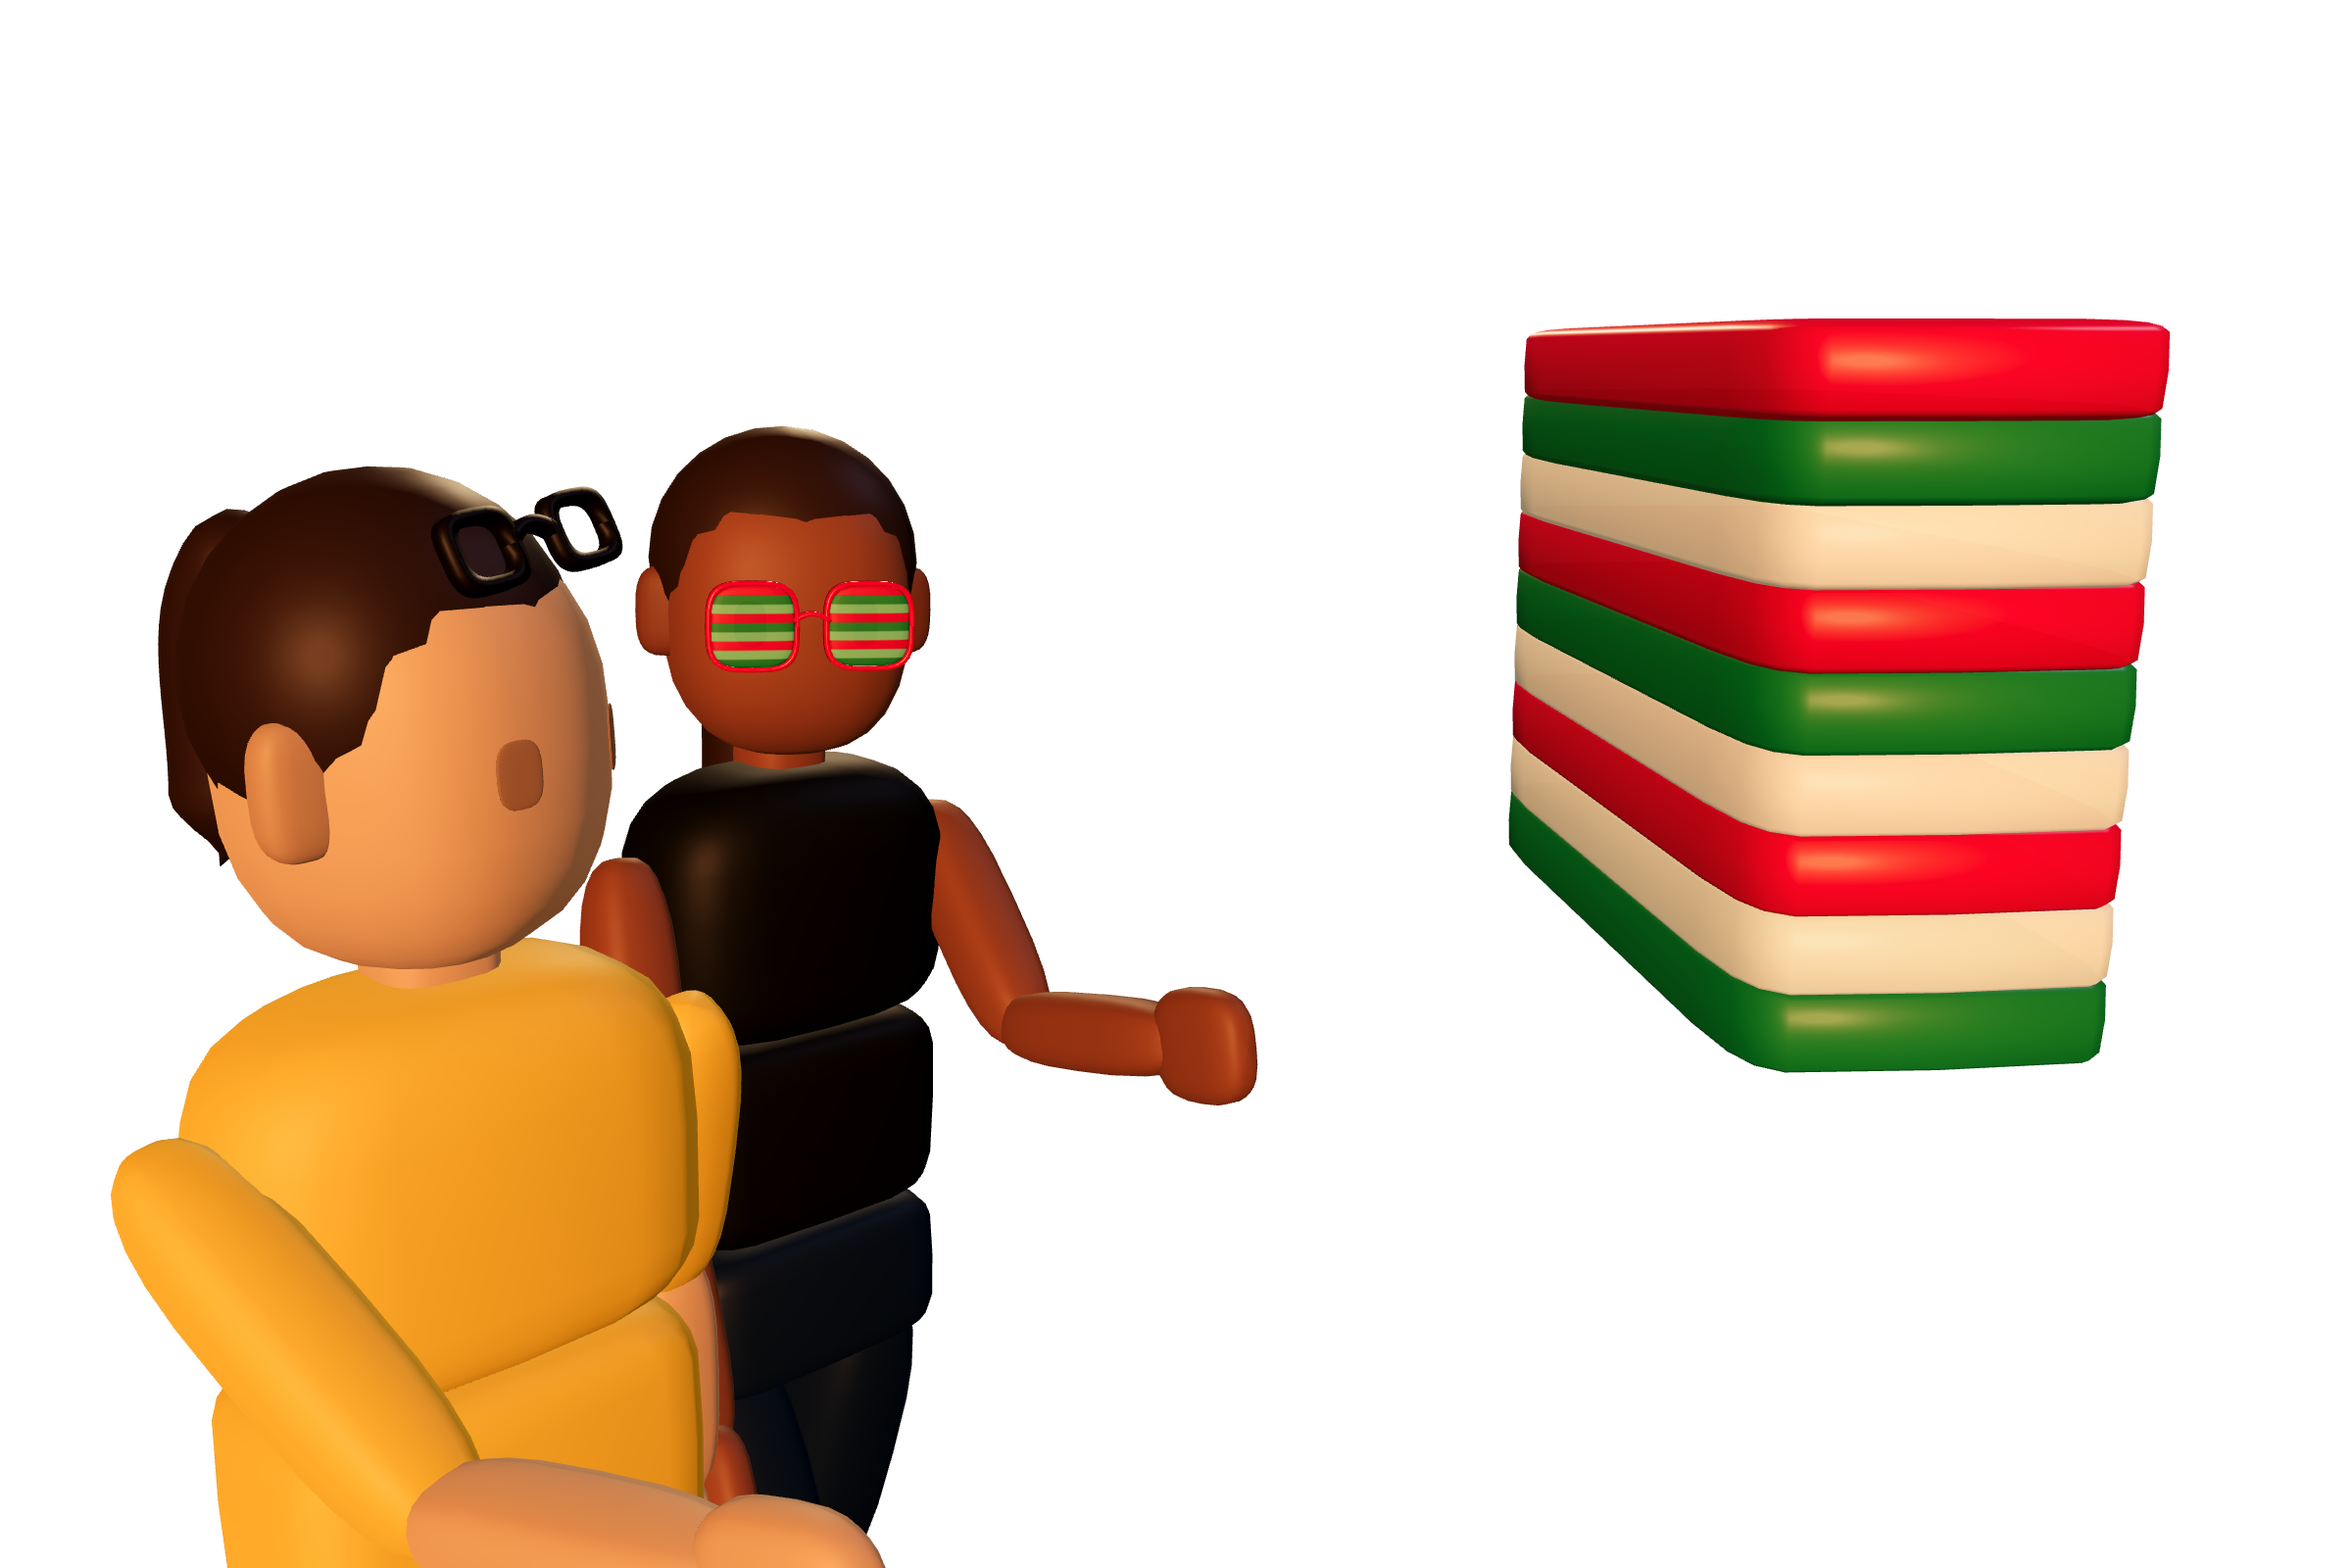
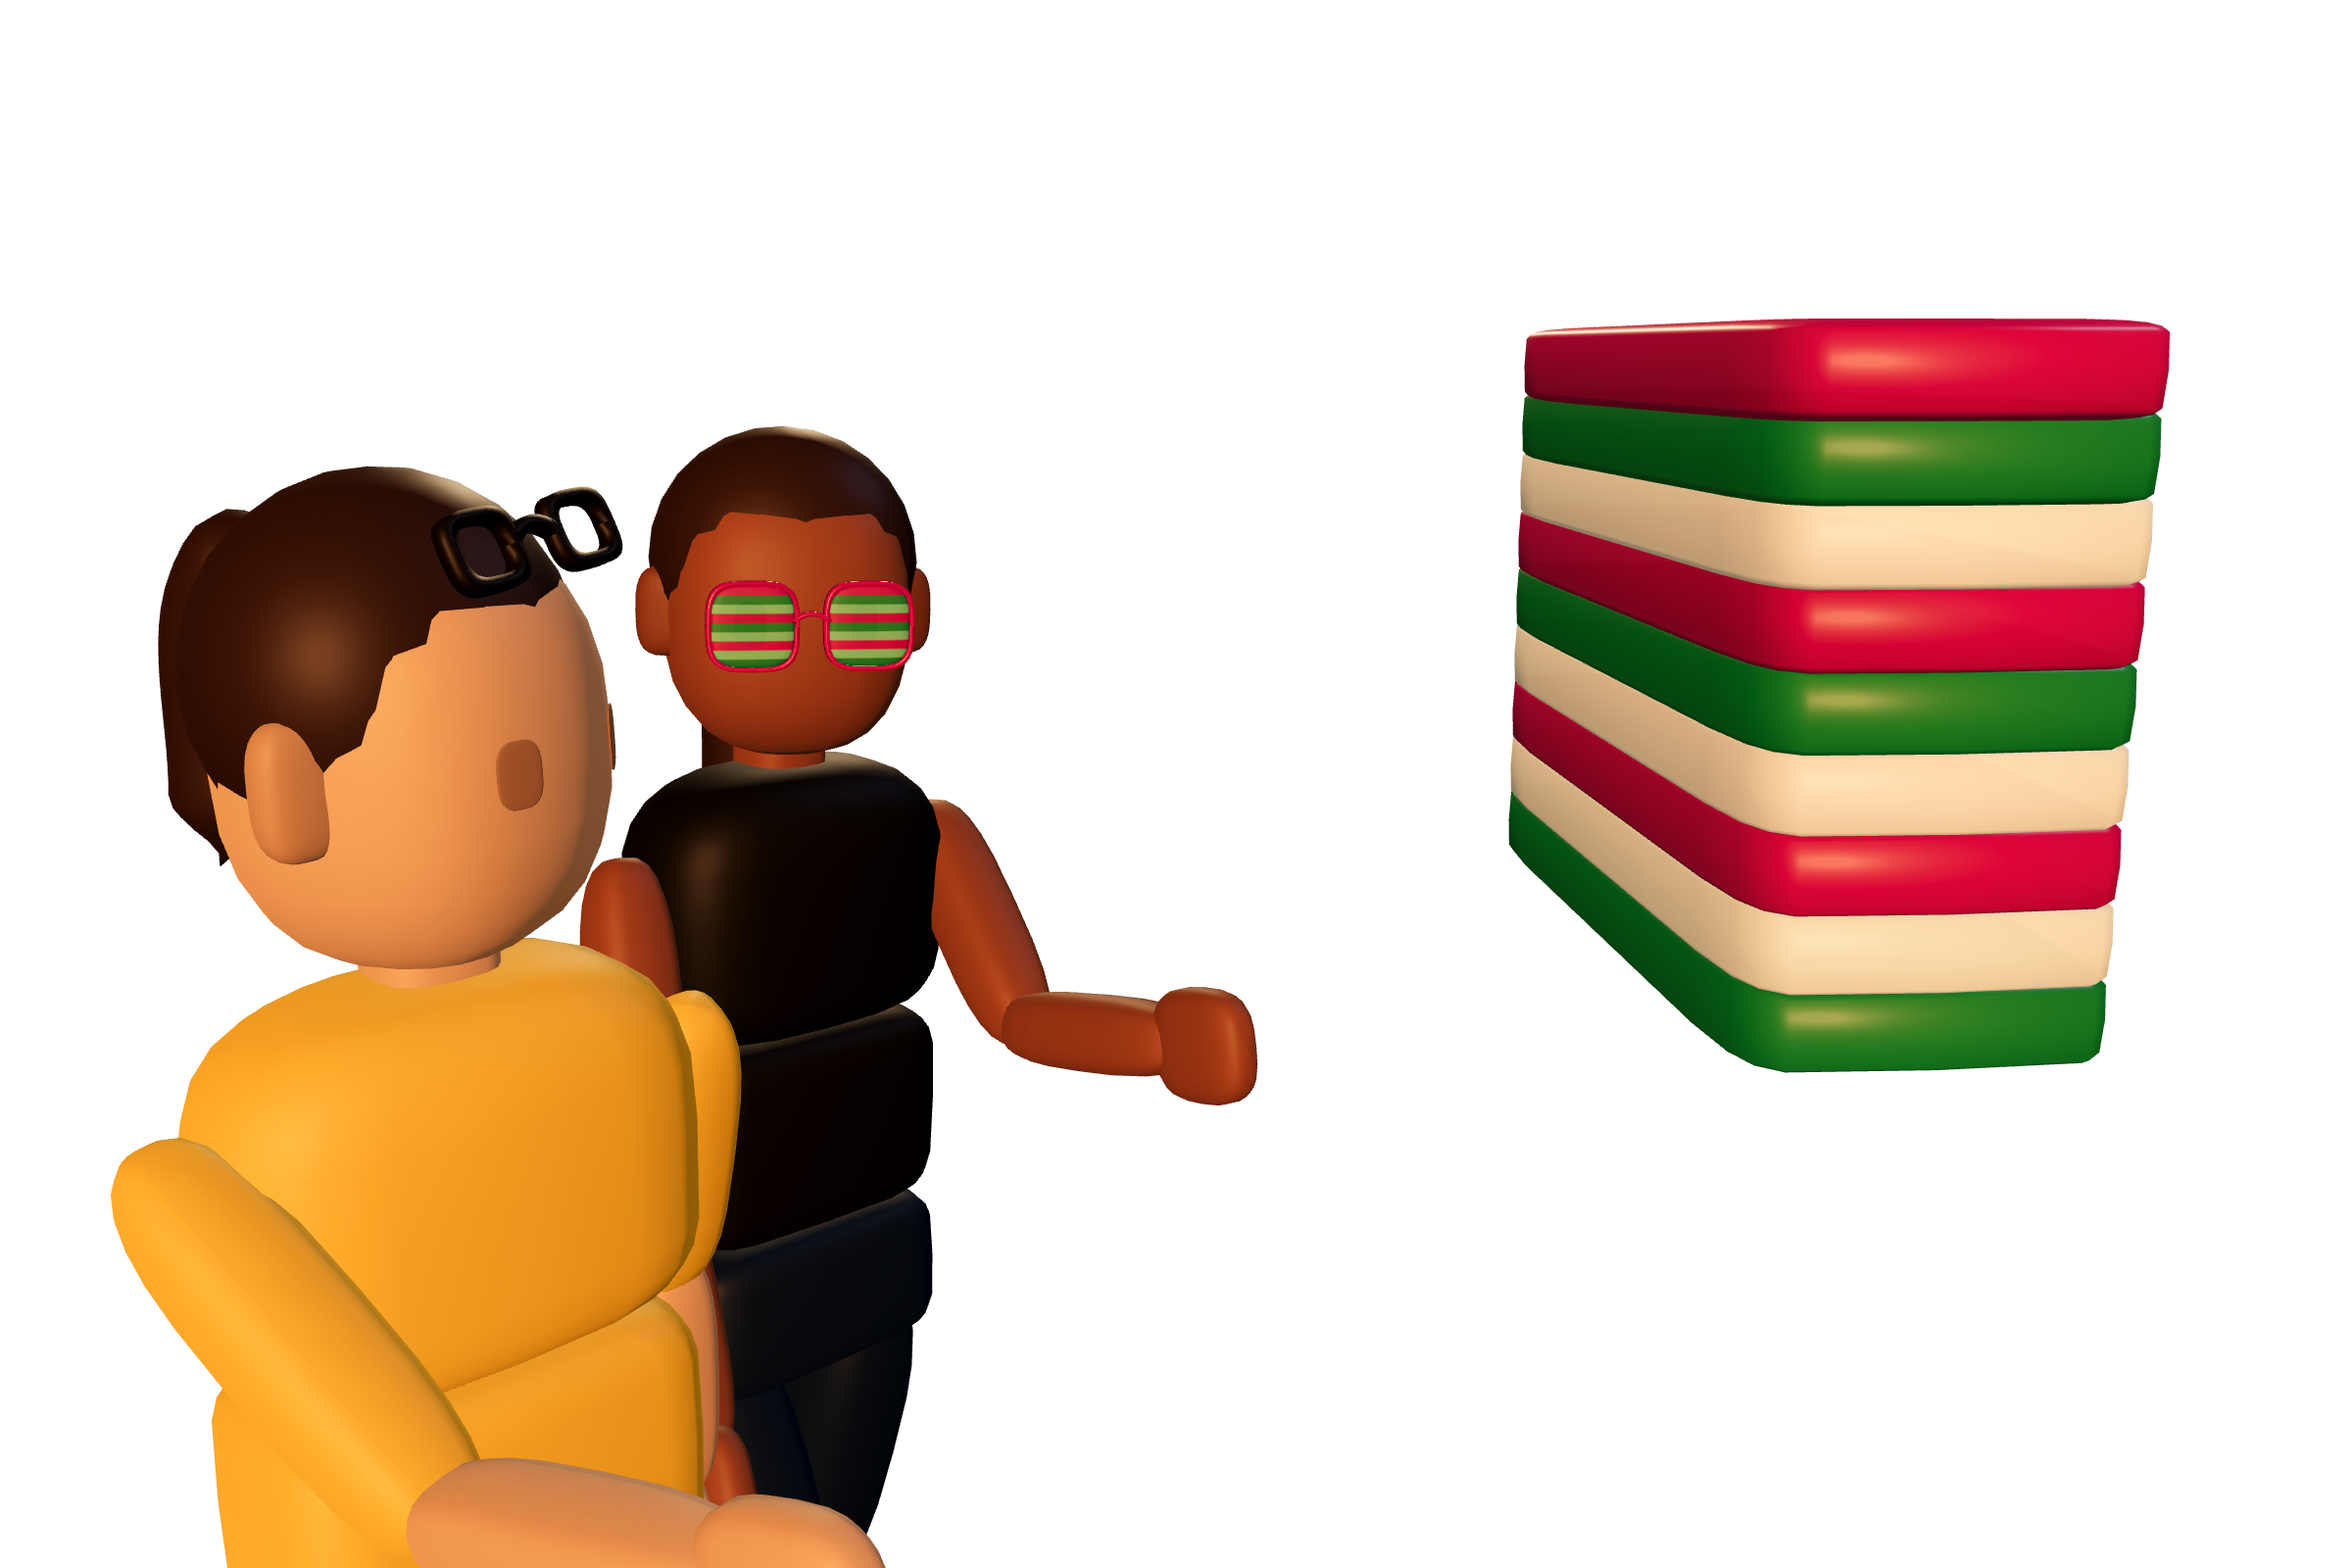
Shift lapis red to brand magenta

diff --git a/machines/hub/index.html b/machines/hub/index.html
@@ -359,7 +359,7 @@ body {
 		<script src="/shared/character-system.js"></script>
 		<script src="index.js"></script>
 		<script>
-const GODOT_CONFIG = {"args":[],"canvasResizePolicy":2,"emscriptenPoolSize":8,"ensureCrossOriginIsolationHeaders":true,"executable":"index","experimentalVK":false,"fileSizes":{"index.pck":904424,"index.wasm":39513091},"focusCanvas":true,"gdextensionLibs":[],"godotPoolSize":4};
+const GODOT_CONFIG = {"args":[],"canvasResizePolicy":2,"emscriptenPoolSize":8,"ensureCrossOriginIsolationHeaders":true,"executable":"index","experimentalVK":false,"fileSizes":{"index.pck":904472,"index.wasm":39513091},"focusCanvas":true,"gdextensionLibs":[],"godotPoolSize":4};
 const GODOT_THREADS_ENABLED = false;
 const engine = new Engine(GODOT_CONFIG);
 
